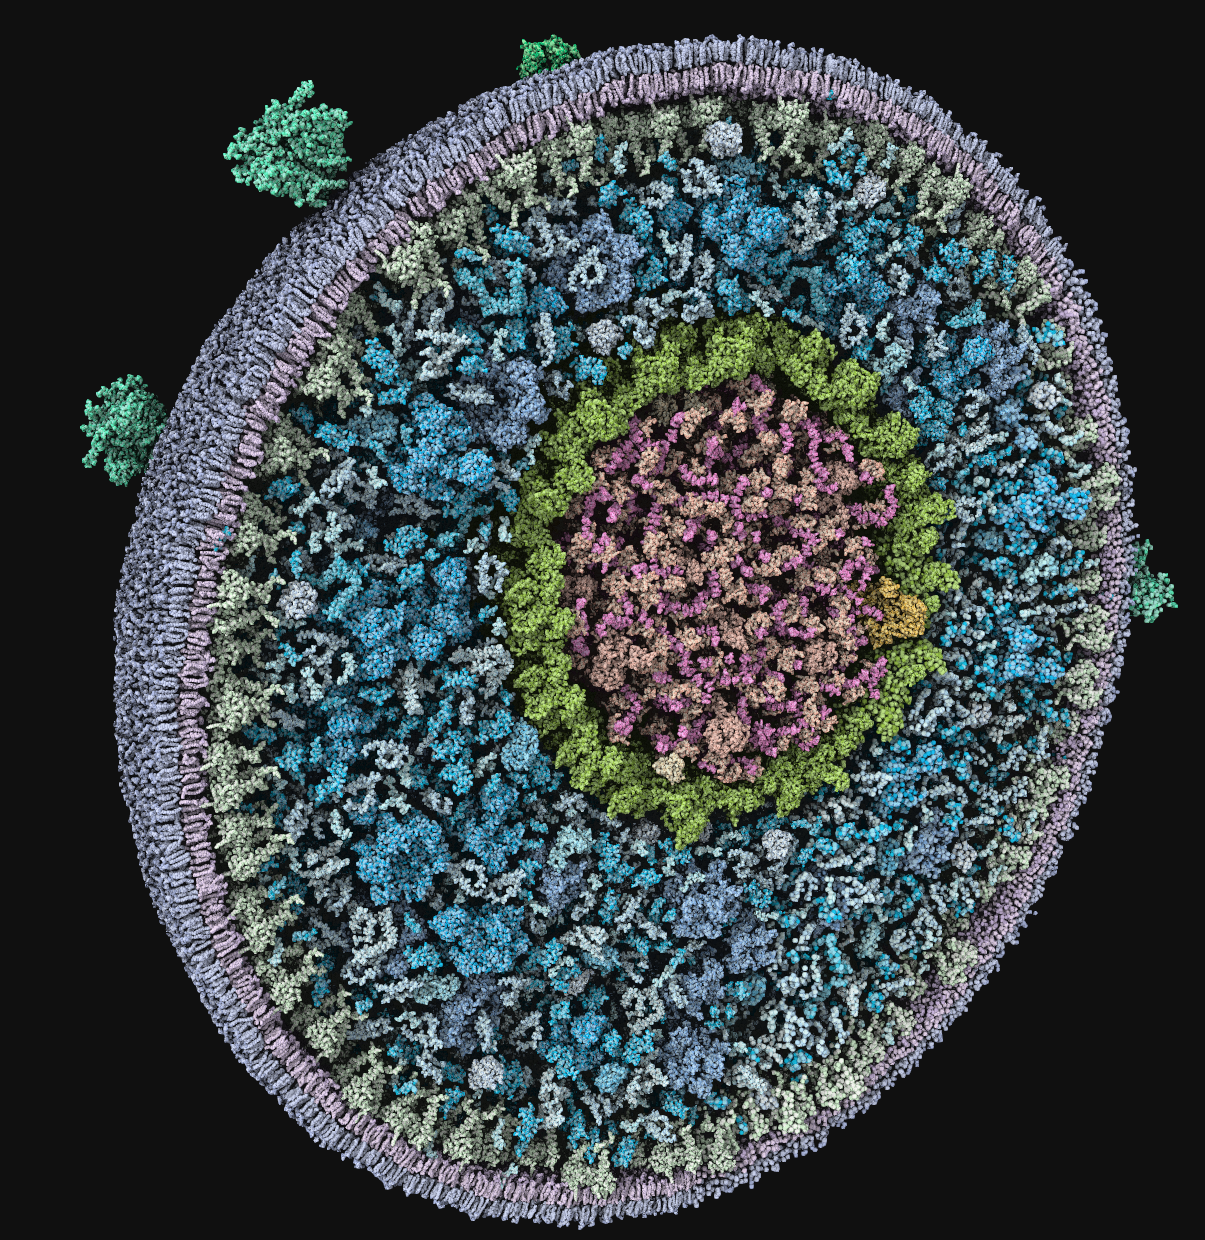
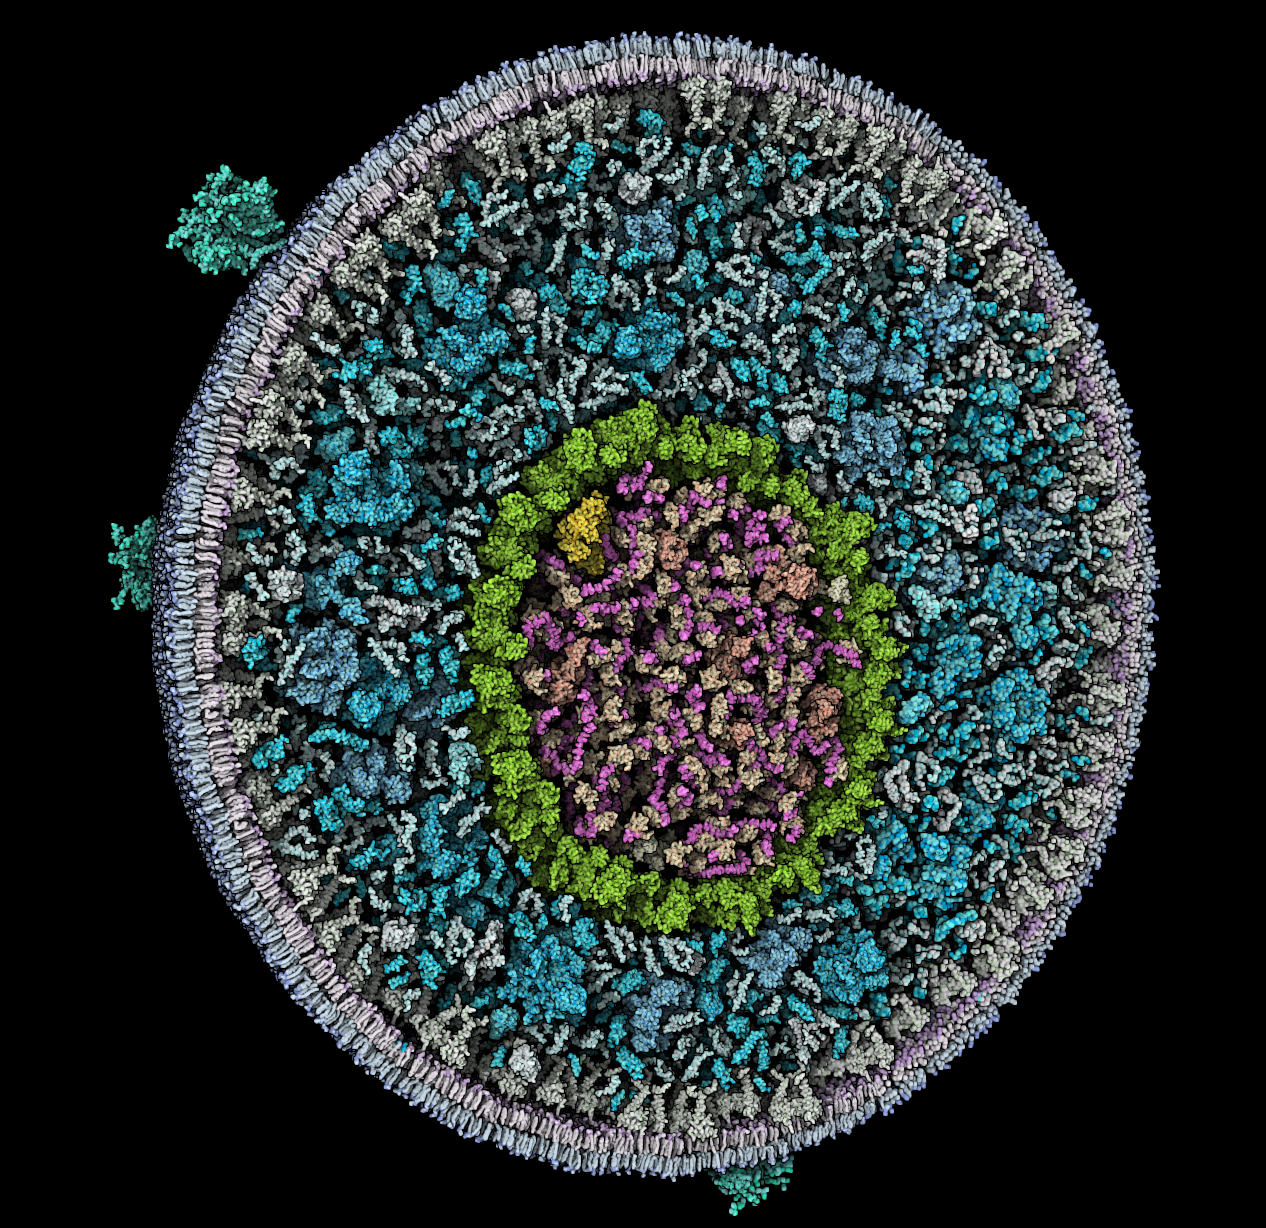
update quick style page

diff --git a/docs/quick-styles.md b/docs/quick-styles.md
@@ -1,27 +1,47 @@
 
 
-Added a Quick Styles panel to #ME to quickly apply styles: default, stylized, illustrative.
-
-
+The Quick Styles panel in #ME allows users to swiftly apply different styles to their representations. Below are the available styles and their effects:
 
 ## Default
 
-Applies default representation preset. Set outline and occlusion effects to defaults.
+Applies the default representation preset. Sets outline and occlusion effects to their default values.
 
-![default](./img/default.png)
+![default](./img/defaultstyle.png)
 
 
-## Stylized
+## Cel-shaded
 
-Applies no representation preset. Enables outline and occlusion effects. Enables ignore-light representation parameter.
+Applies a cel-shaded or toon shading effect. Removes outline, increases lighting intensity, and enhances occlusion intensity.
 
-![stylized](./img/dofstyle.png)
+![Cel-shaded](./img/celshaded.png)
 
 
 ## Illustrative
 
-Applies illustrative representation preset. Enables outline and occlusion effects. Enables ignore-light parameter.
+Applies the illustrative representation preset. Enables outline and occlusion effects. Enables ignore-light parameter.
 
-Quickest way to emulate @dsgoodsell`s iconic illustrative style in #molstar.
+Quickest way to emulate @dsgoodsell`s coloring style.
 
 ![illustrative](./img/illustrative.png)
+
+
+## Shiny
+
+Adds a glossy finish to the sphere rendering. 
+
+![shiny](./img/shiny.png)
+
+
+## Shiny-Illustrative
+
+Combines a glossy finish with the illustrative color option.
+
+![shiny-illustrative](./img/shiny_illustrative.png)
+
+
+## Shiny-DOF
+
+Adds gloss and enables the Depth of Field (DOF) effect, focusing on the camera's current target center.
+
+![shiny-dof](./img/shiny_dof.png)
+
